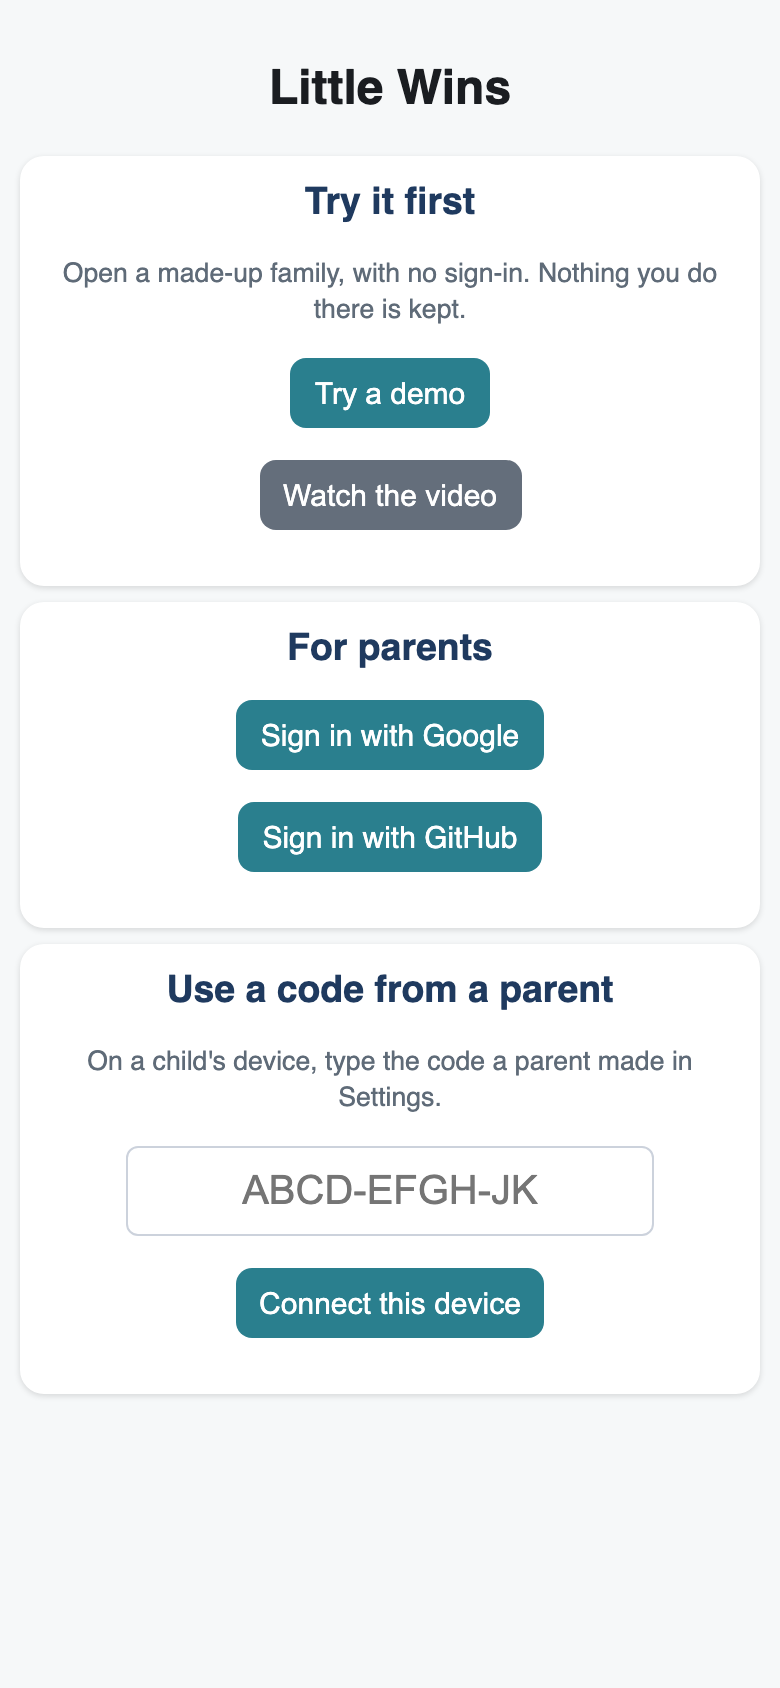
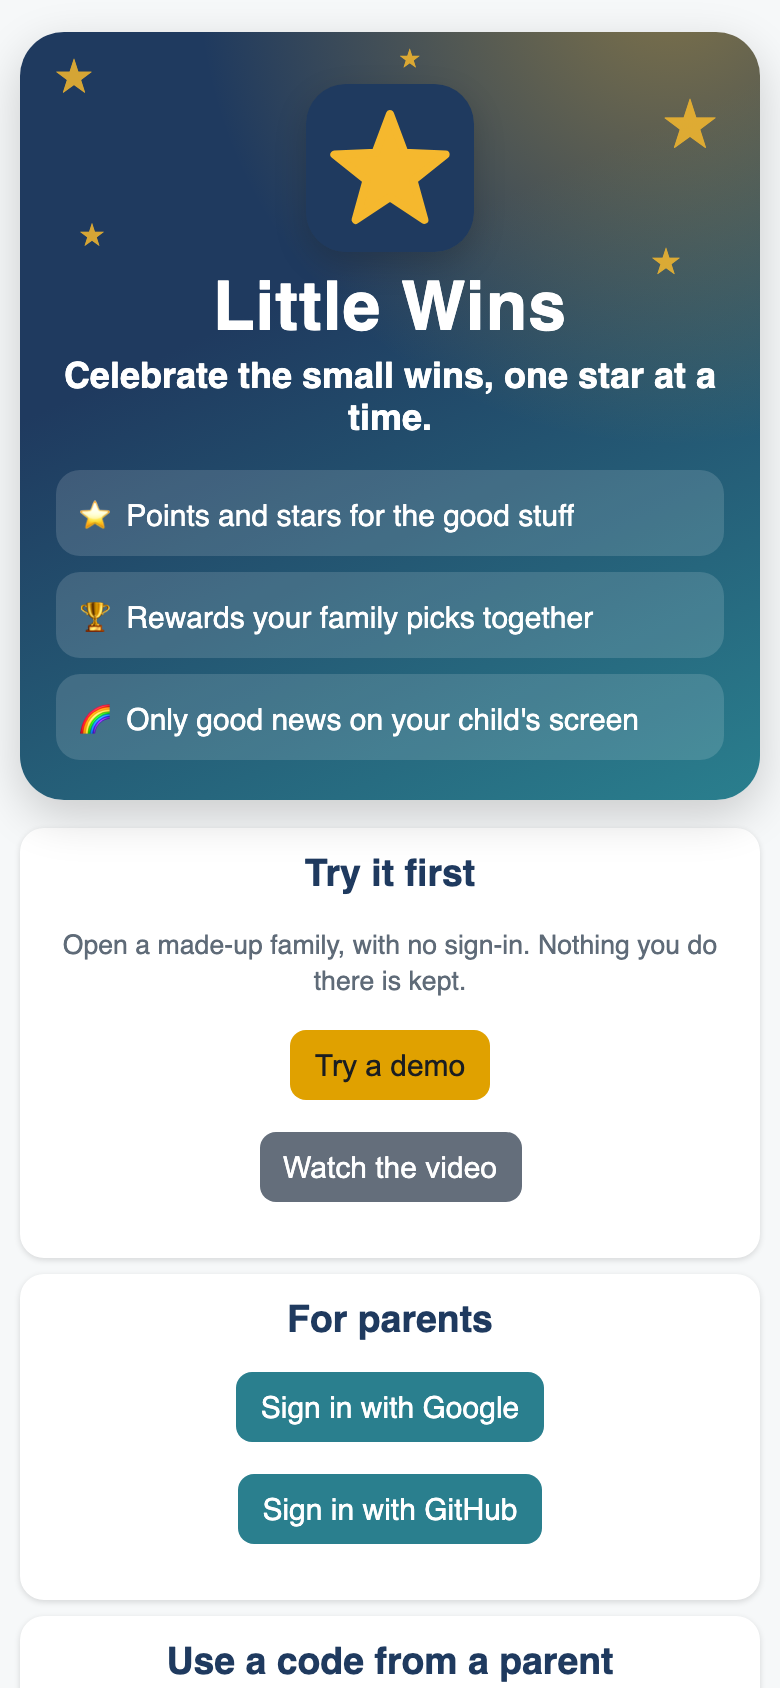
A brighter sign-in page: the welcome
The sign-in page now opens with the star logo, the name, a tagline
("Celebrate the small wins, one star at a time.") and three reasons, on
the app's navy-to-teal colors with a warm glow and a few twinkling
stars. Try a demo is the gold button. The stars and the logo's pop stay
still with reduced motion; invite links keep the plain page.

New theme tokens (--gold, --glass, --glow, --sunrise) keep TH-02 happy;
strings in all five languages. Tests E2E-160/161 (the existing layout
tests also check it at every phone size and in every language). Guide
picture of the sign-in page retaken; design and changelog updated.

diff --git a/public/style.css b/public/style.css
@@ -31,6 +31,10 @@
   --offer-line: #c9dde3;
   --toast: #222;
   --dim: rgba(15, 30, 50, 0.35);
+  --gold: #f5b82e; /* the star of the logo and the welcome's sparkles */
+  --glass: rgba(255, 255, 255, 0.14); /* soft panels on the welcome's colors */
+  --glow: rgba(0, 0, 0, 0.18);
+  --sunrise: rgba(245, 184, 46, 0.45); /* the warm glow behind the welcome's stars */
 }
 
 /* Dark: follows the device's setting */
@@ -800,4 +804,134 @@ select {
   margin-top: 6px;
   font-size: 13px;
   padding: 5px 10px;
+}
+
+/* The welcome on the sign-in page: the star, the name, a tagline and three reasons */
+.landing {
+  max-width: 480px;
+  margin: 0 auto;
+}
+
+.hero {
+  position: relative;
+  overflow: hidden;
+  margin: 6px 0 14px;
+  padding: 26px 18px 20px;
+  border-radius: 22px;
+  color: #fff;
+  background:
+    radial-gradient(circle at 88% -8%, var(--sunrise), transparent 45%),
+    linear-gradient(155deg, var(--n) 0%, var(--n) 35%, var(--t) 100%);
+  box-shadow: 0 8px 24px var(--glow);
+}
+
+.hero h1 {
+  margin: 8px 0 4px;
+  font-size: 34px;
+  letter-spacing: 0.5px;
+  color: #fff;
+}
+
+.hero-logo {
+  display: block;
+  margin: 0 auto;
+  border-radius: 20px;
+  box-shadow: 0 6px 16px var(--glow);
+  animation: lw-pop 0.7s ease-out both;
+}
+
+.tagline {
+  margin: 0 0 16px;
+  font-size: 18px;
+  font-weight: 600;
+}
+
+.perks {
+  list-style: none;
+  margin: 0;
+  padding: 0;
+  display: grid;
+  gap: 8px;
+  text-align: left;
+}
+
+.perks li {
+  background: var(--glass);
+  border-radius: 12px;
+  padding: 9px 12px;
+  font-size: 15px;
+}
+
+.sparkle {
+  position: absolute;
+  color: var(--gold);
+  line-height: 1;
+  opacity: 0.85;
+  animation: lw-twinkle 3.2s ease-in-out infinite;
+}
+
+.sparkle.s1 {
+  top: 14px;
+  left: 18px;
+  font-size: 18px;
+}
+
+.sparkle.s2 {
+  top: 34px;
+  right: 22px;
+  font-size: 26px;
+  animation-delay: 0.8s;
+}
+
+.sparkle.s3 {
+  top: 96px;
+  left: 30px;
+  font-size: 12px;
+  animation-delay: 1.6s;
+}
+
+.sparkle.s4 {
+  top: 108px;
+  right: 40px;
+  font-size: 14px;
+  animation-delay: 2.2s;
+}
+
+.sparkle.s5 {
+  top: 8px;
+  right: 46%;
+  font-size: 10px;
+  animation-delay: 1.2s;
+}
+
+@keyframes lw-twinkle {
+  0%,
+  100% {
+    transform: scale(1) rotate(0deg);
+    opacity: 0.85;
+  }
+
+  50% {
+    transform: scale(1.35) rotate(18deg);
+    opacity: 0.35;
+  }
+}
+
+@keyframes lw-pop {
+  from {
+    transform: scale(0.6) rotate(-12deg);
+    opacity: 0;
+  }
+
+  to {
+    transform: scale(1) rotate(0deg);
+    opacity: 1;
+  }
+}
+
+@media (prefers-reduced-motion: reduce) {
+  .sparkle,
+  .hero-logo {
+    animation: none;
+  }
 }

diff --git a/public/app.js b/public/app.js
@@ -238,7 +238,10 @@
           `<p><a class="b lnk" href="/auth/${esc(p)}/login${q}">${esc(L.signInWith[p] || p)}</a></p>`,
       )
       .join('');
-    let h = `<main class=center><h2>${esc(cfg.appName)}</h2>${note}`;
+    let h =
+      signup || invite
+        ? `<main class=center><h2>${esc(cfg.appName)}</h2>${note}`
+        : `<main class="center landing">${welcome()}${note}`;
     if (signup) {
       h += signup.ok
         ? `<h3>${signup.full ? STR.setup.full : L.signupTitle}</h3>${signup.full ? contact() : `<p><small>${L.signupHelp}</small></p>${btns}`}<p><button class="b g" data-action=not-now>${L.notNow}</button></p>`
@@ -255,10 +258,21 @@
   }
 
   // Try a demo and Watch the video, at the top of the sign-in screen when they are on.
+  // The welcome at the top of the sign-in page: the star, the name, a tagline and three reasons.
+  function welcome() {
+    const W = STR.welcome;
+    const stars = ['s1', 's2', 's3', 's4', 's5']
+      .map((k) => `<span class="sparkle ${k}" aria-hidden=true>★</span>`)
+      .join('');
+    return `<section class=hero aria-label="${esc(cfg.appName)}">${stars}<img class=hero-logo src=icon.svg alt="" width=84 height=84><h1>${esc(cfg.appName)}</h1><p class=tagline>${W.tagline}</p><ul class=perks>${W.perks
+      .map(([icon, text]) => `<li><span aria-hidden=true>${icon}</span> ${text}</li>`)
+      .join('')}</ul></section>`;
+  }
+
   function tryCard() {
     const D = STR.demo;
     const demo = cfg.demo
-      ? `<p><button class=b data-action=demo-start>${D.tryButton}</button></p>`
+      ? `<p><button class="b w" data-action=demo-start>${D.tryButton}</button></p>`
       : '';
     const video = cfg.tourVideo
       ? `<p><button class="b${cfg.demo ? ' g' : ''}" data-action=video>${D.watchButton}</button></p>`

diff --git a/e2e/welcome.spec.js b/e2e/welcome.spec.js
@@ -1,0 +1,34 @@
+// The welcome at the top of the sign-in page.
+const { test, expect } = require('./fixtures');
+
+test('E2E-160 the sign-in page opens with the welcome: the star, the name, the tagline and three reasons', async ({
+  page,
+}) => {
+  await page.goto('/');
+  const hero = page.locator('.hero');
+  await expect(hero.getByRole('heading', { name: 'Little Wins', level: 1 })).toBeVisible();
+  await expect(hero).toContainText('Celebrate the small wins, one star at a time.');
+  await expect(hero.locator('.perks li')).toHaveCount(3);
+  await expect(hero.locator('img.hero-logo')).toHaveAttribute('src', 'icon.svg');
+  await expect(page.getByRole('link', { name: 'Sign in with Google' })).toBeVisible();
+  const wide = await page.evaluate(() => document.documentElement.scrollWidth > window.innerWidth);
+  expect(wide, 'no sideways scrolling').toBe(false);
+});
+
+test.describe('with reduced motion', () => {
+  test.use({ reducedMotion: 'reduce' });
+
+  test('E2E-161 the welcome stays still when the device asks for reduced motion', async ({
+    page,
+  }) => {
+    await page.goto('/');
+    await expect(page.locator('.hero')).toBeVisible();
+    const names = await page.evaluate(() =>
+      [...document.querySelectorAll('.sparkle, .hero-logo')].map(
+        (el) => getComputedStyle(el).animationName,
+      ),
+    );
+    expect(names.length).toBe(6);
+    expect(names.every((n) => n === 'none')).toBe(true);
+  });
+});

diff --git a/public/strings.fr.js b/public/strings.fr.js
@@ -40,6 +40,15 @@ window.LW_STRINGS.fr = {
     networkError: 'Impossible de joindre le serveur. Réessaie.',
     familyDeleted: 'Famille supprimée.',
   },
+  // The welcome on the sign-in page
+  welcome: {
+    tagline: 'Célébrez les petites victoires, une étoile à la fois.',
+    perks: [
+      ['⭐', 'Des points et des étoiles pour ce qui va bien'],
+      ['🏆', 'Des récompenses choisies en famille'],
+      ['🌈', "Que des bonnes nouvelles sur l'écran de votre enfant"],
+    ],
+  },
   legal: { privacy: 'Confidentialité', terms: 'Conditions' },
   operator: {
     idleAfter: 'Familles inactives supprimées après',

diff --git a/public/strings.de.js b/public/strings.de.js
@@ -40,6 +40,15 @@ window.LW_STRINGS.de = {
     networkError: 'Der Server ist nicht erreichbar. Versuch es noch einmal.',
     familyDeleted: 'Familie gelöscht.',
   },
+  // The welcome on the sign-in page
+  welcome: {
+    tagline: 'Feiere die kleinen Erfolge, Stern für Stern.',
+    perks: [
+      ['⭐', 'Punkte und Sterne für das Gute'],
+      ['🏆', 'Belohnungen, die die Familie gemeinsam aussucht'],
+      ['🌈', 'Nur gute Nachrichten auf dem Bildschirm Ihres Kindes'],
+    ],
+  },
   legal: { privacy: 'Datenschutz', terms: 'Nutzungsbedingungen' },
   operator: {
     idleAfter: 'Inaktive Familien gelöscht nach',

diff --git a/public/strings.es.js b/public/strings.es.js
@@ -39,6 +39,15 @@ window.LW_STRINGS.es = {
     networkError: 'No se puede conectar con el servidor. Inténtalo de nuevo.',
     familyDeleted: 'Familia eliminada.',
   },
+  // The welcome on the sign-in page
+  welcome: {
+    tagline: 'Celebra los pequeños logros, una estrella a la vez.',
+    perks: [
+      ['⭐', 'Puntos y estrellas por lo bueno'],
+      ['🏆', 'Recompensas que elige toda la familia'],
+      ['🌈', 'Solo buenas noticias en la pantalla de tu hijo'],
+    ],
+  },
   legal: { privacy: 'Privacidad', terms: 'Condiciones' },
   operator: {
     idleAfter: 'Familias inactivas eliminadas tras',

diff --git a/public/strings.en.js b/public/strings.en.js
@@ -40,6 +40,15 @@ window.LW_STRINGS.en = {
     networkError: "Can't reach the server. Try again.",
     familyDeleted: 'Family deleted.',
   },
+  // The welcome on the sign-in page
+  welcome: {
+    tagline: 'Celebrate the small wins, one star at a time.',
+    perks: [
+      ['⭐', 'Points and stars for the good stuff'],
+      ['🏆', 'Rewards your family picks together'],
+      ['🌈', "Only good news on your child's screen"],
+    ],
+  },
   legal: { privacy: 'Privacy', terms: 'Terms' },
   operator: {
     idleAfter: 'Idle families deleted after',

diff --git a/public/strings.zh.js b/public/strings.zh.js
@@ -38,6 +38,15 @@ window.LW_STRINGS.zh = {
     networkError: '无法连接服务器，请再试一次。',
     familyDeleted: '家庭已删除。',
   },
+  // The welcome on the sign-in page
+  welcome: {
+    tagline: '一颗星一颗星，庆祝每一个小进步。',
+    perks: [
+      ['⭐', '为好表现赢得积分和星星'],
+      ['🏆', '全家一起挑选奖励'],
+      ['🌈', '孩子的屏幕上只有好消息'],
+    ],
+  },
   legal: { privacy: '隐私', terms: '条款' },
   operator: {
     idleAfter: '闲置家庭删除时间',

diff --git a/test/notices.test.js b/test/notices.test.js
@@ -40,7 +40,7 @@ function device() {
 
 // A stand-in push service on localhost: records requests, answers with `status`.
 let pushes = [];
-let status = 201;
+const status = 201;
 let push;
 let pushUrl;
 let srv;

diff --git a/docs/design.md b/docs/design.md
@@ -293,6 +293,7 @@ These hold in both modes.
 - Bottom tabs with icons: Today, Week, Rewards, History, and Settings for parents.
 - Settings sections fold; each header shows a count.
 - The page polls the state every 5 seconds while visible, keeping the selected week.
+- **The welcome.** The sign-in page opens with the star logo, the name, a tagline ("Celebrate the small wins, one star at a time.") and three reasons, on the app's navy-to-teal colors with a warm glow and a few twinkling stars. **Try a demo** is the gold button. The stars and the logo's pop stay still with reduced motion. Invite and family-invite links keep the plain page.
 - **Icon.** A gold star on the app's navy: `public/icon.svg` (the favicon) and `icon-maskable.svg` (full bleed, for Android's maskable icon and iOS), drawn by hand; `scripts/icons.js` makes the PNG sizes the manifest and iOS need, and `favicon.ico`. The project page uses the same icon.
 - **Light and dark.** The page follows the device's setting (`prefers-color-scheme`); there is no switch in the app. Every color is a token on `:root` in `style.css`, and a dark palette overrides the tokens (`color-scheme: light dark` lets form controls follow). Every text color reads at 4.5:1 or more on the backgrounds it is used on, in both themes (WCAG AA), and a test checks it. White text on colored buttons, the tour's orange outline and the video's black frame are the same in both.
 

diff --git a/CLAUDE.md b/CLAUDE.md
@@ -58,7 +58,7 @@ test/            *.test.js: real server on a temp database, signed in through th
                  edge (headers, proxies, rate limits), limits, export, operator, etag,
                  isolation.test.js (cross-family check for every parent route), demo (demo families, video),
                  site (the project page), family-invites (invite mode and the cap on families),
-                 theme (light and dark contrast), icons (favicon and manifest icons), idle (idle families), backup (encrypted backups), review (weekly review), encouragement (messages to a child), per-child (lists for some children), webpush and reminders (evening reminders),
+                 theme (light and dark contrast), icons (favicon and manifest icons), welcome (the sign-in page), idle (idle families), backup (encrypted backups), review (weekly review), encouragement (messages to a child), per-child (lists for some children), webpush and reminders (evening reminders),
                  scoring.test.js (unit);
                  helpers.js (server, cookie jar, signIn, api, newFamily, pairChild, sql)
 scripts/         backup.sh, build-site.sh, icons.js, guide-pictures.js, tour-video.js, tour-voiceover.py (dev only)

diff --git a/CHANGELOG.md b/CHANGELOG.md
@@ -23,6 +23,7 @@ All notable changes are listed here. The format follows [Keep a Changelog](https
 
 ### Changed
 
+- A brighter sign-in page: the star logo, a tagline, three reasons to use Little Wins and a few twinkling stars, with Try a demo in gold.
 - Notices on a child's device: once a parent allows them for that child, a reward unlocked or a milestone reached sends a Web Push to the child's device, once each.
 - Evening reminder, opt-in per parent phone: one Web Push a day at the chosen time when a challenge is still unmarked (encrypted, no dependency; `PUSH_REMINDERS=0` turns it off).
 - Behaviors, penalties, challenges and rewards can be for some children only ("Who is it for?" in the edit form); each child's Today, Week and Rewards show only theirs.
